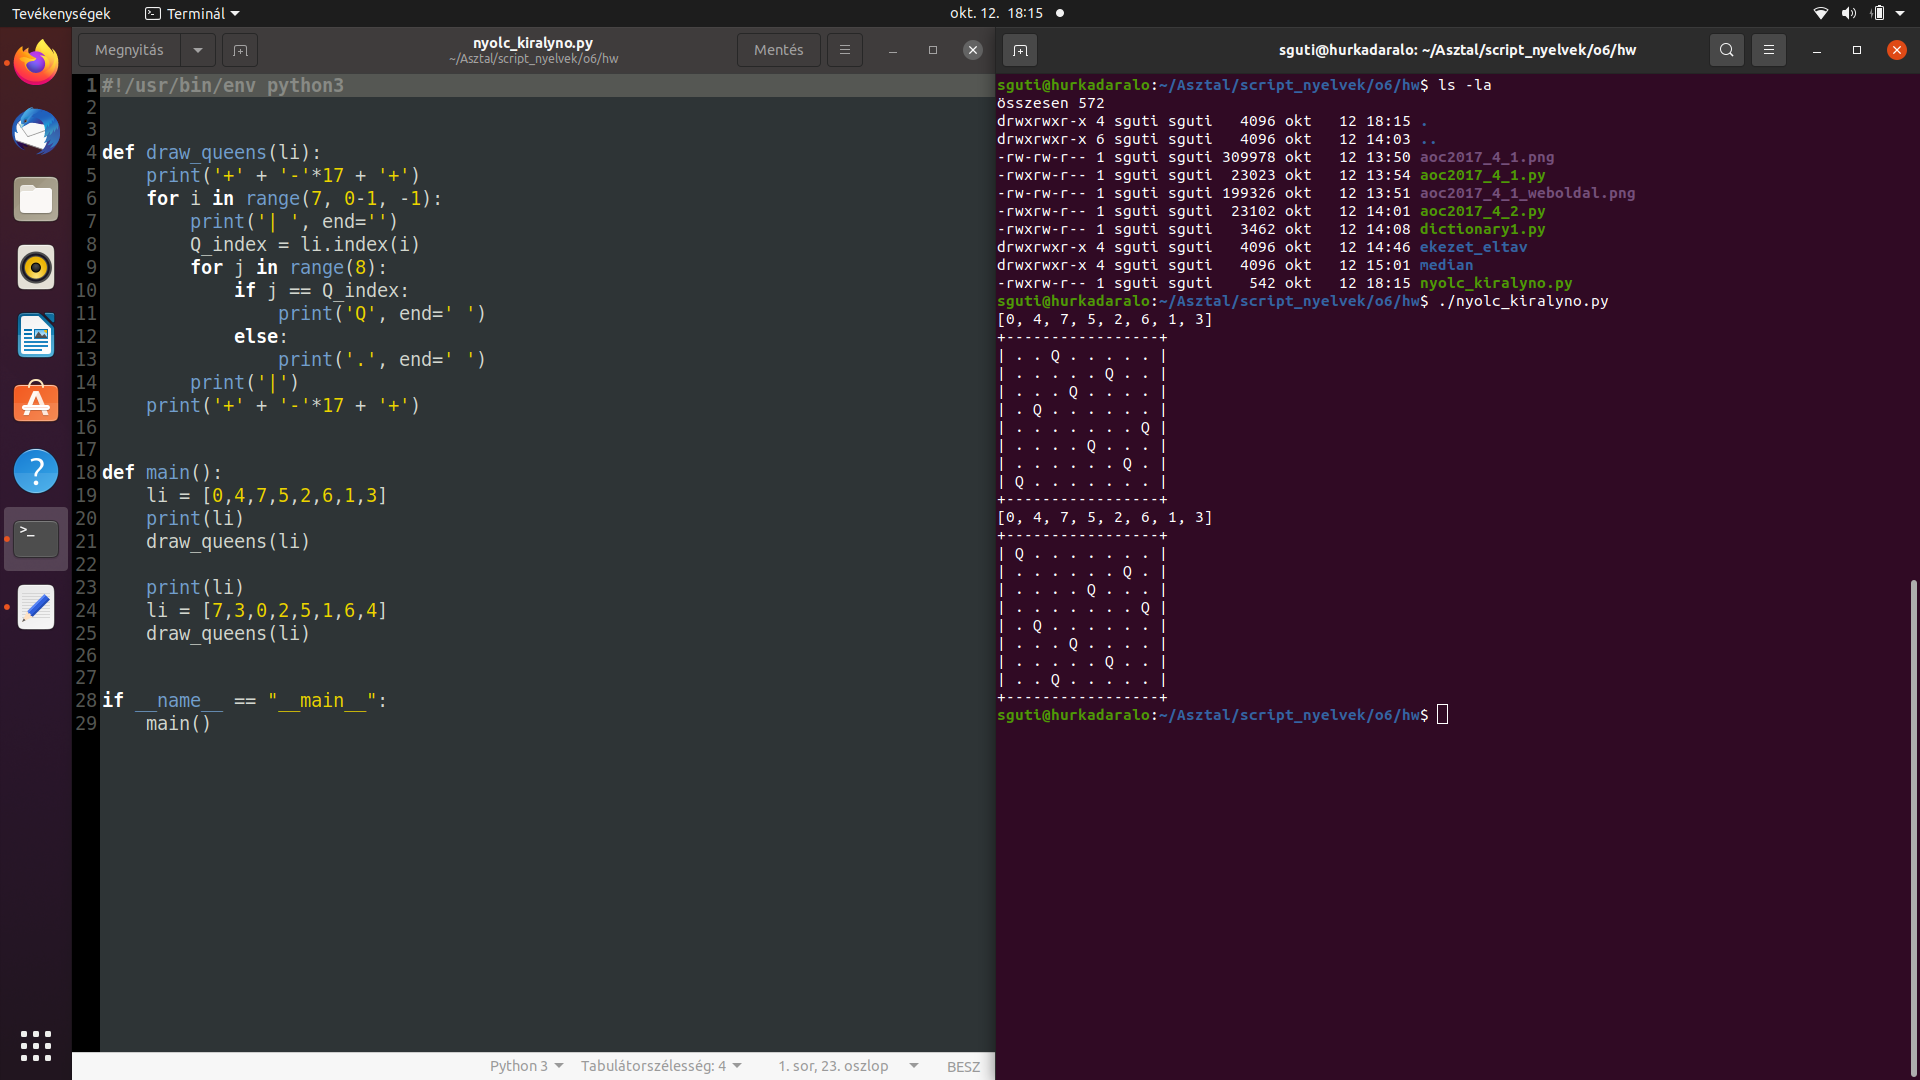
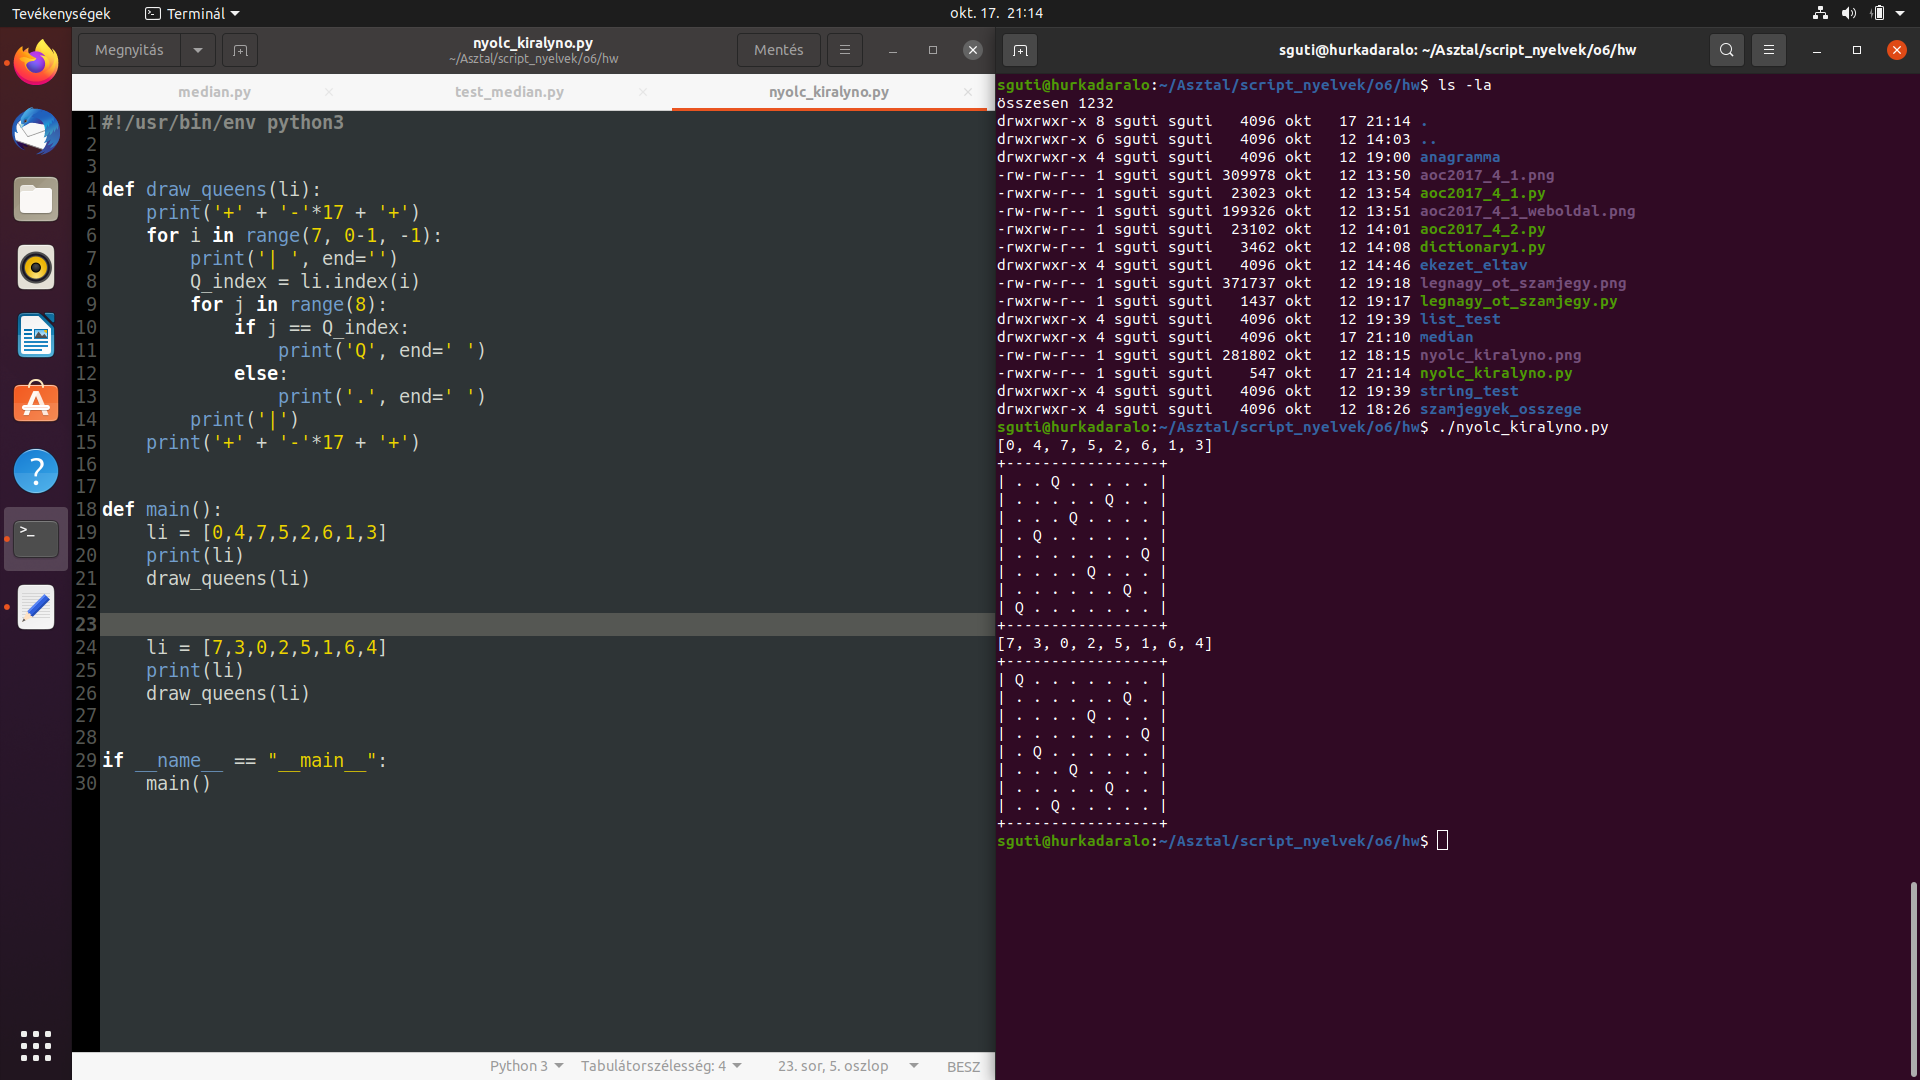
final version of hw uploaded

diff --git a/o6/hw/median/test_median.py b/o6/hw/median/test_median.py
@@ -2,7 +2,7 @@ from median import median_calc
 
 
 def test_median_calc():
-    median_calc([1, 2, 3, 4, 5]) == 3
-    median_calc([3, 1, 2, 5, 3]) == 3
-    median_calc([1, 300, 2, 200, 1]) == 2
-    median_calc([3, 6, 20, 99, 10, 15]) == 12.5
+    assert median_calc([1, 2, 3, 4, 5]) == 3
+    assert median_calc([3, 1, 2, 5, 3]) == 3
+    assert median_calc([1, 300, 2, 200, 1]) == 2
+    assert median_calc([3, 6, 20, 99, 10, 15]) == 12.5

diff --git a/o6/hw/nyolc_kiralyno.py b/o6/hw/nyolc_kiralyno.py
@@ -20,8 +20,9 @@ def main():
     print(li)
     draw_queens(li)
     
-    print(li)
+    
     li = [7,3,0,2,5,1,6,4]
+    print(li)
     draw_queens(li)
 
 
